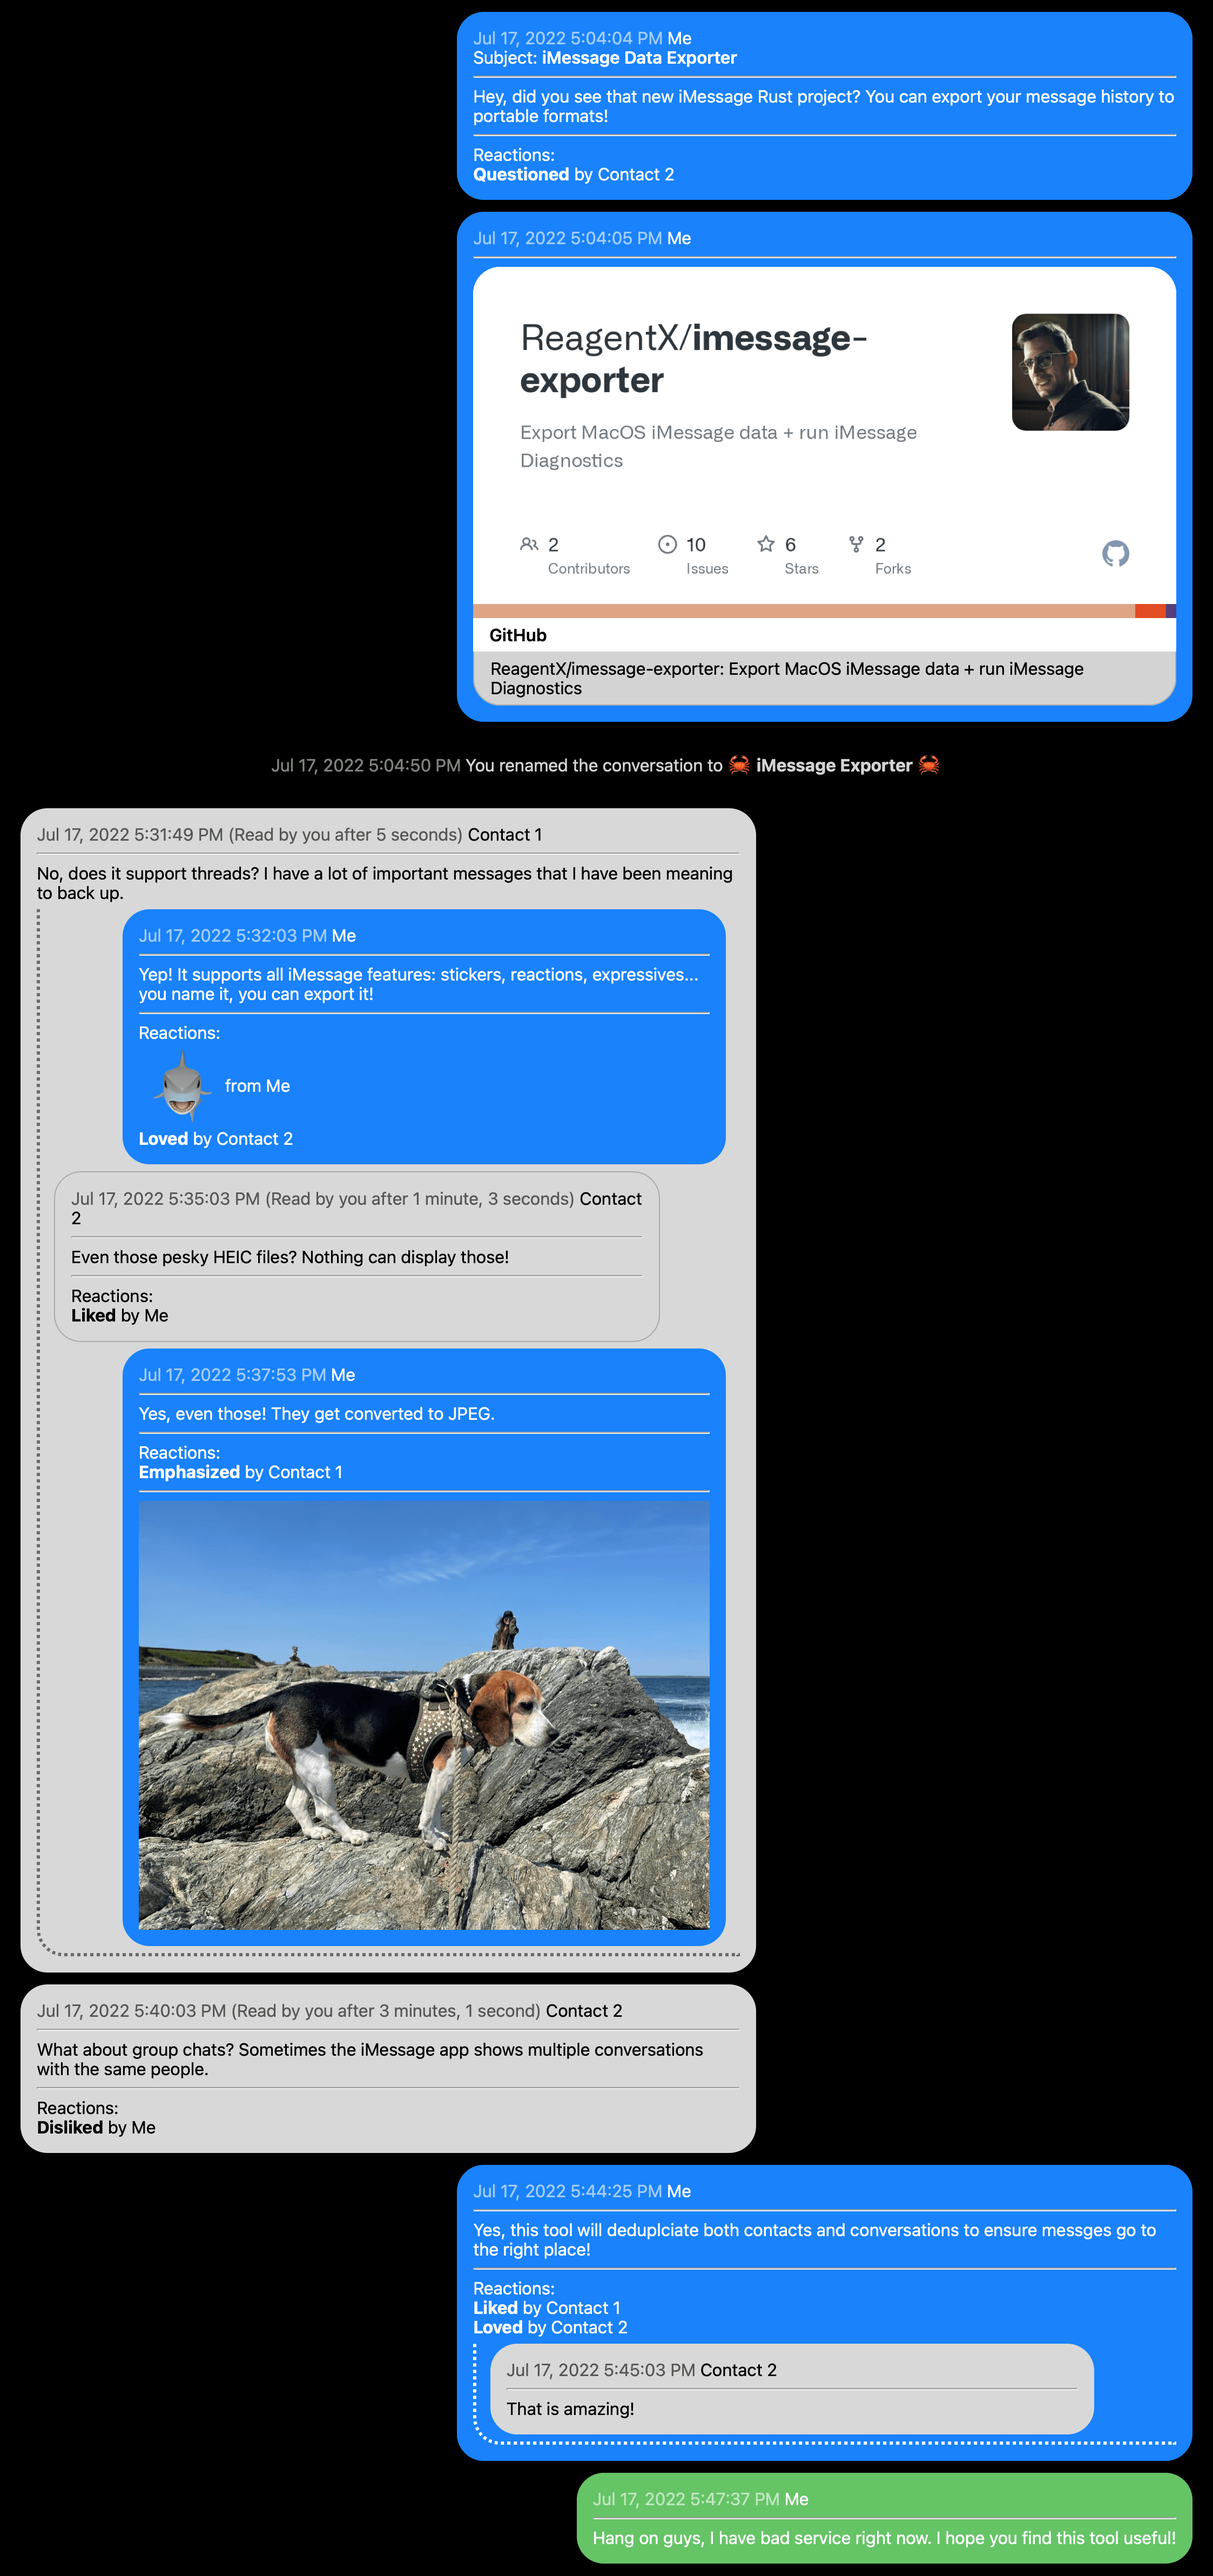
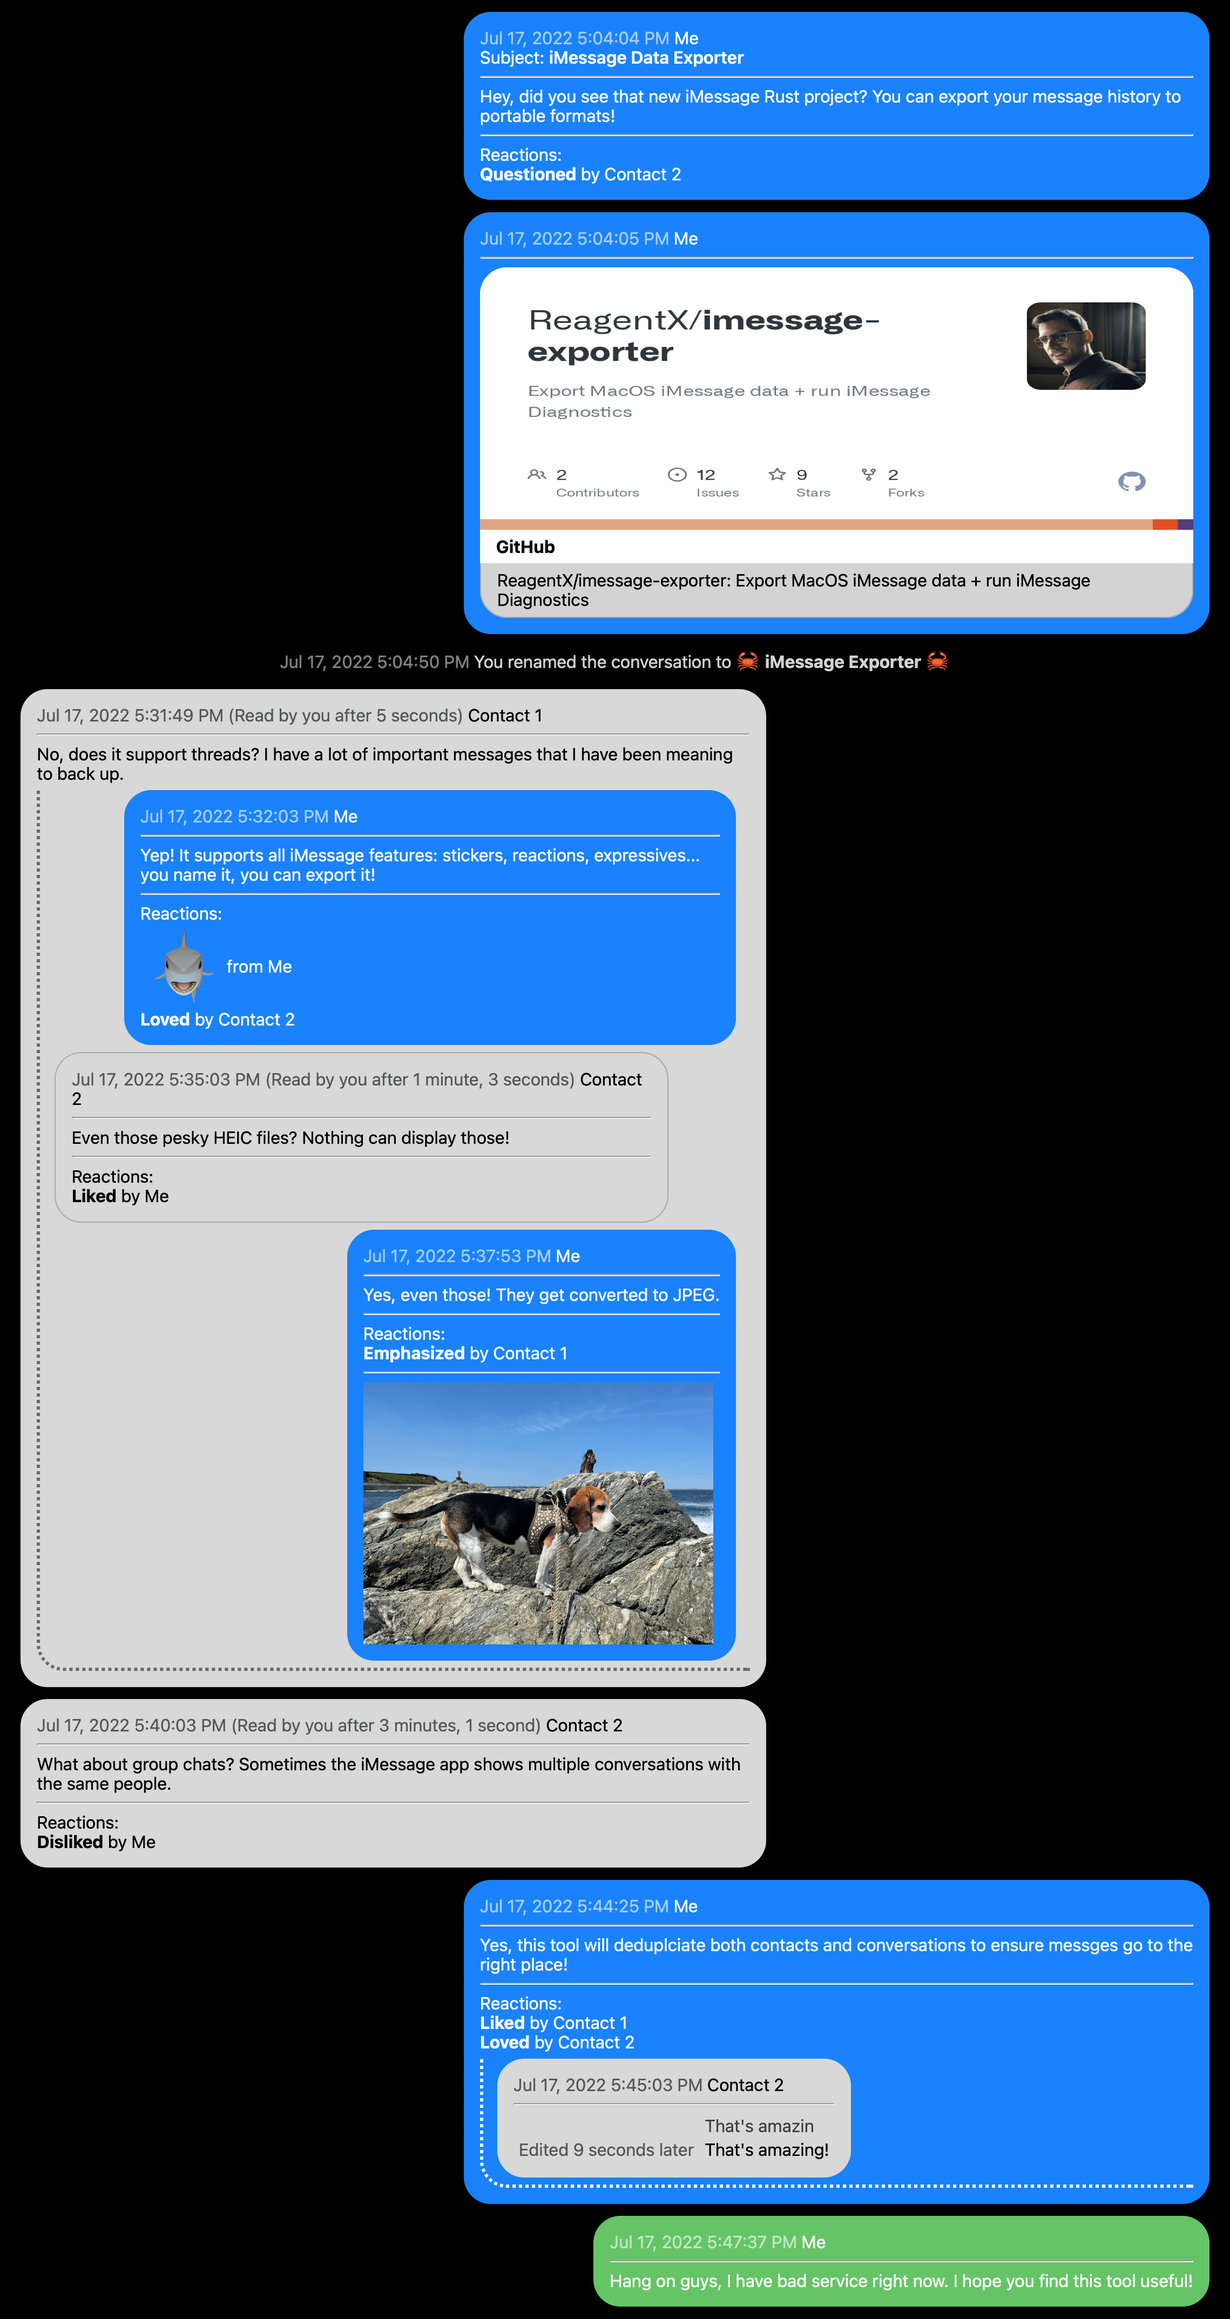
Add edited message to hero

Changed region(s): [[0.0, 0.0, 0.9973, 0.9986]]

diff --git a/imessage-exporter/src/exporters/resources/example.html b/imessage-exporter/src/exporters/resources/example.html
@@ -29,7 +29,7 @@
             <div class="app">
                 <a href="https://github.com/ReagentX/imessage-exporter">
                 <div class="app_header">
-                    <img src="https://opengraph.githubassets.com/17759b7dda51195577f6ce33f1f9ed8103fc84540547cd7f07599e13908433c8/ReagentX/imessage-exporter">
+                    <img src="https://opengraph.githubassets.com/8766665c3e97293817c63fafbf35b55cd6395466b0b390ab6c25e8e30344d014/ReagentX/imessage-exporter">
                     <div class="name"><b>GitHub</b></div>
                 </div>
                 <div class="app_footer">
@@ -148,11 +148,28 @@
                             <span class="sender">Contact 2</span>
                         </p>
                         <hr>
-                        <div class="message_part"><span class="bubble">That is amazing!</span></div>
+                        <div class="message_part">
+                            <div class="edited">
+                                <table>
+                                    <tbody>
+                                        <tr>
+                                            <td></td>
+                                            <td>That's amazin</td>
+                                        </tr>
+                                    </tbody>
+                                    <tfoot>
+                                        <tr>
+                                            <td><span class="timestamp">Edited 9 seconds later</span></td>
+                                            <td>That's amazing!</td>
+                                        </tr>
+                                    </tfoot>
+                                </table>
+                            </div>
+                        </div>
                     </div>
                 </div>
             </div>
-        </div> 
+        </div>
     </div>
 </div>
 
